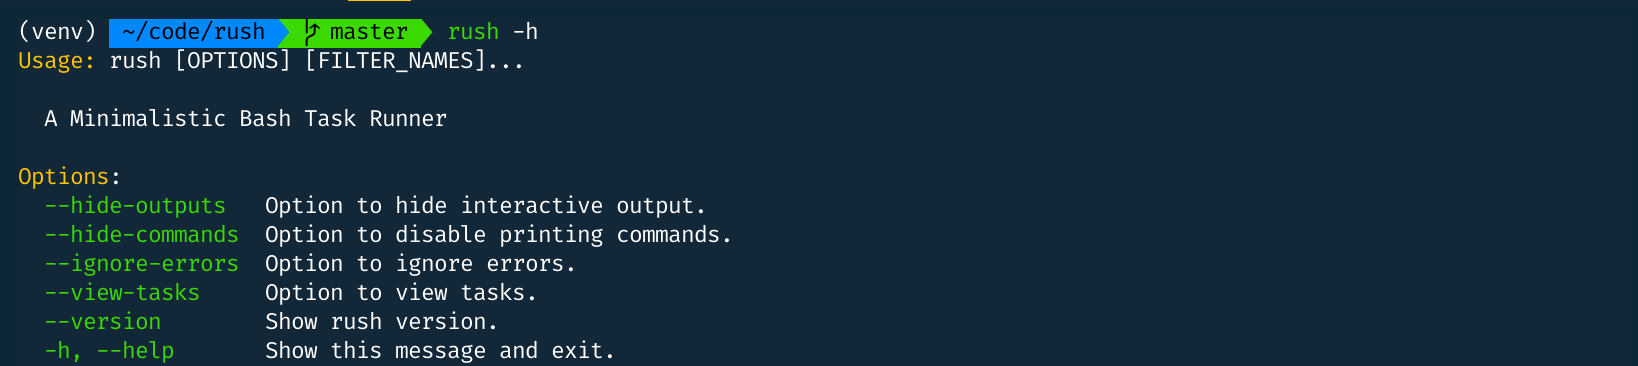
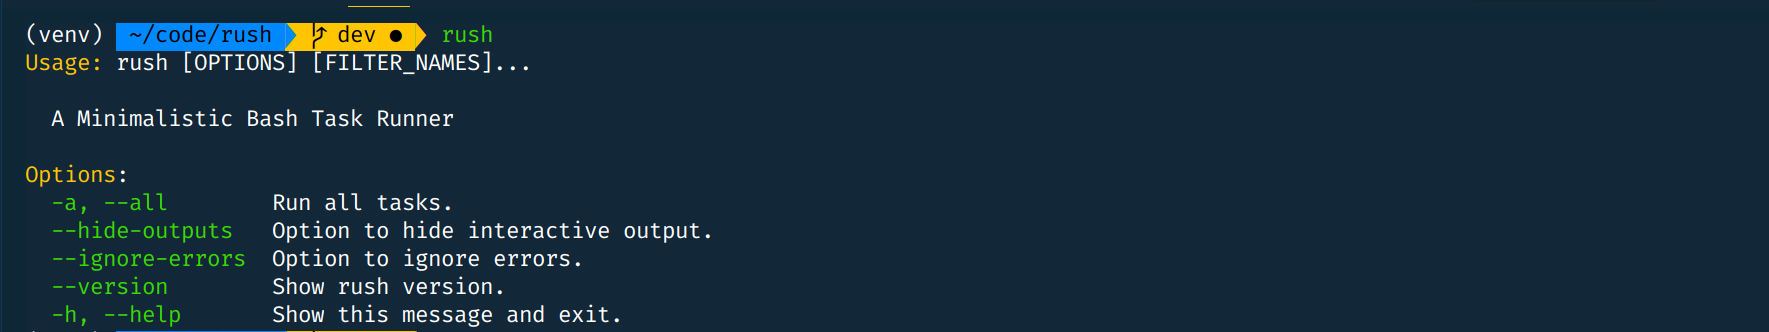
Supports every bash command under the sun

diff --git a/README.md b/README.md
@@ -9,17 +9,13 @@
 </div>
 
 
-* You can you ignore task execution by adding `//` before taskname in the `rushfile.yml`
-
-
 ## Features
-* Supports all bash commands
-* By default, runs commands in interactive mode
-* Highlights the commands as they get executed
-* Option to catch or ignore command errors
-* Option to show or supress command outputs
-* Command chaining is supported (See the example `rushfile.yml` where `task_2` is chained to `task_1`)
-* Individual tasks can be ignored
+* Supports all **bash** commands
+* Option to ignore or run specific tasks
+* By default, runs commands in **interactive** mode
+* Option to catch or ignore **command errors**
+* Option to show or supress **command outputs**
+* **Command chaining is supported** (See the example `rushfile.yml` where `task_2` is chained to `task_1`)
 
 ## Installation
 
@@ -33,9 +29,10 @@ $ pip3 install rush-cli
 Here is an example `rushfile.yml`. It needs to reside in the root directory:
 
 ``` yml
+# rushfile.yml
+
 task_1: |
     echo "task1 is running"
-    ls
 
 task_2: |
     # Task chaining [task_1 is a dependency of task_2]
@@ -43,8 +40,9 @@ task_2: |
     echo "task2 is running"
 
 task_3: |
-    l -a
-    echo "task_3 is running"
+    ls -a
+    sudo apt-get install cowsay | head -n 0
+    cowsay "Around the world in 80 days!"
 
 //task_4: |
     # Ignoring a task [task_4 will be ignored while execution]
@@ -60,6 +58,10 @@ task_5: |
 ### Available Options
 To see all the available options, run:
 ```
+$ rush
+```
+or,
+```
 $ rush --help
 ```
 This should show:
@@ -70,13 +72,25 @@ This should show:
 
 * **Run all the tasks**
     ```
-    $ rush
+    $ rush --all
     ```
 
 * **Run specific tasks**
     ```
     $ rush task_1 task_4
     ```
+* **Ignore specific tasks**
+
+    See the example `rushfile.yml` where the `'//'` before a task name means that the task will be ignored during execution
+
+    ```
+    # rushfile.yml
+
+    //task_4: |
+        echo "This task will be ignored during execution."
+    ```
+    This ignores the task named `//task_4`.
+
 * **Run tasks non interactively** (supress the outputs)
     ```
     $ rush --hide-outputs
@@ -90,18 +104,6 @@ This should show:
     ```
     $ rush --ignore-errors
     ```
-
-* **View tasks without running**
-    ```
-    $ rush --view-tasks
-    ```
-
-* **View filtered tasks without running**
-    ```
-    $rush task_2 task_1 --view-tasks
-    ```
-    ![img](./img/rush-view.png)
-
 
 ## Quirks
 
